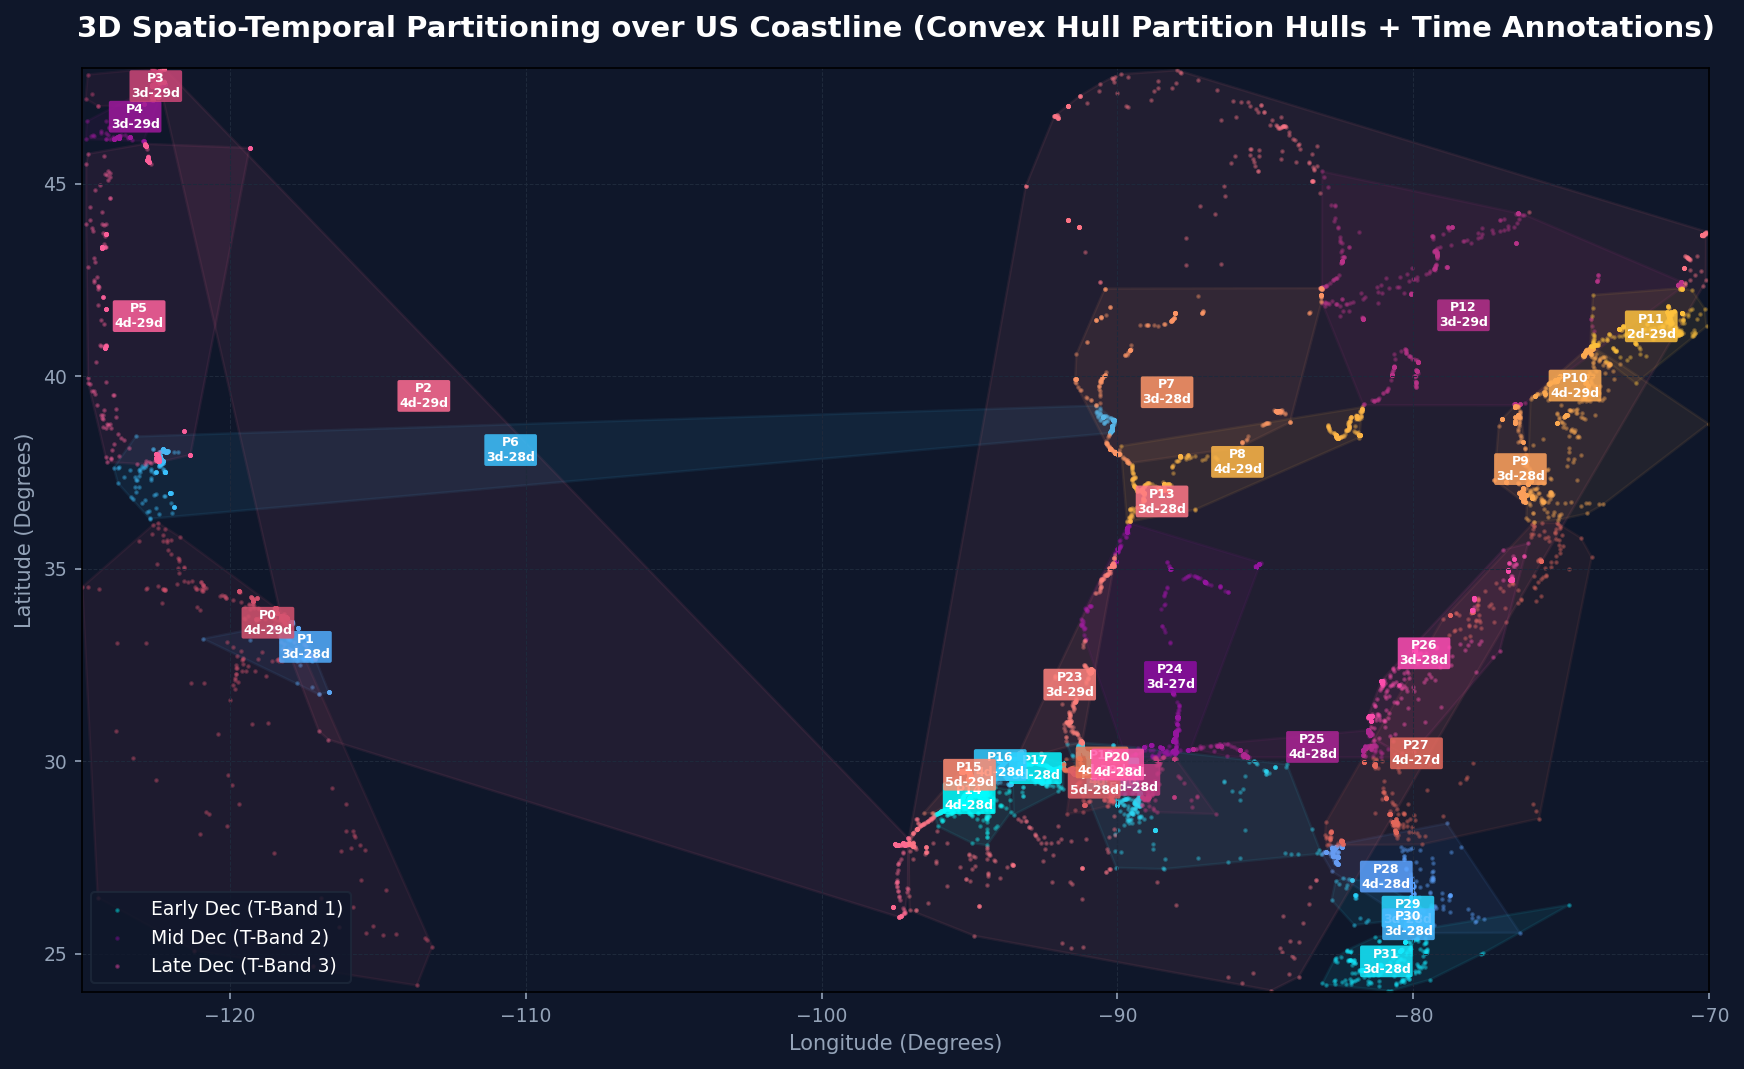
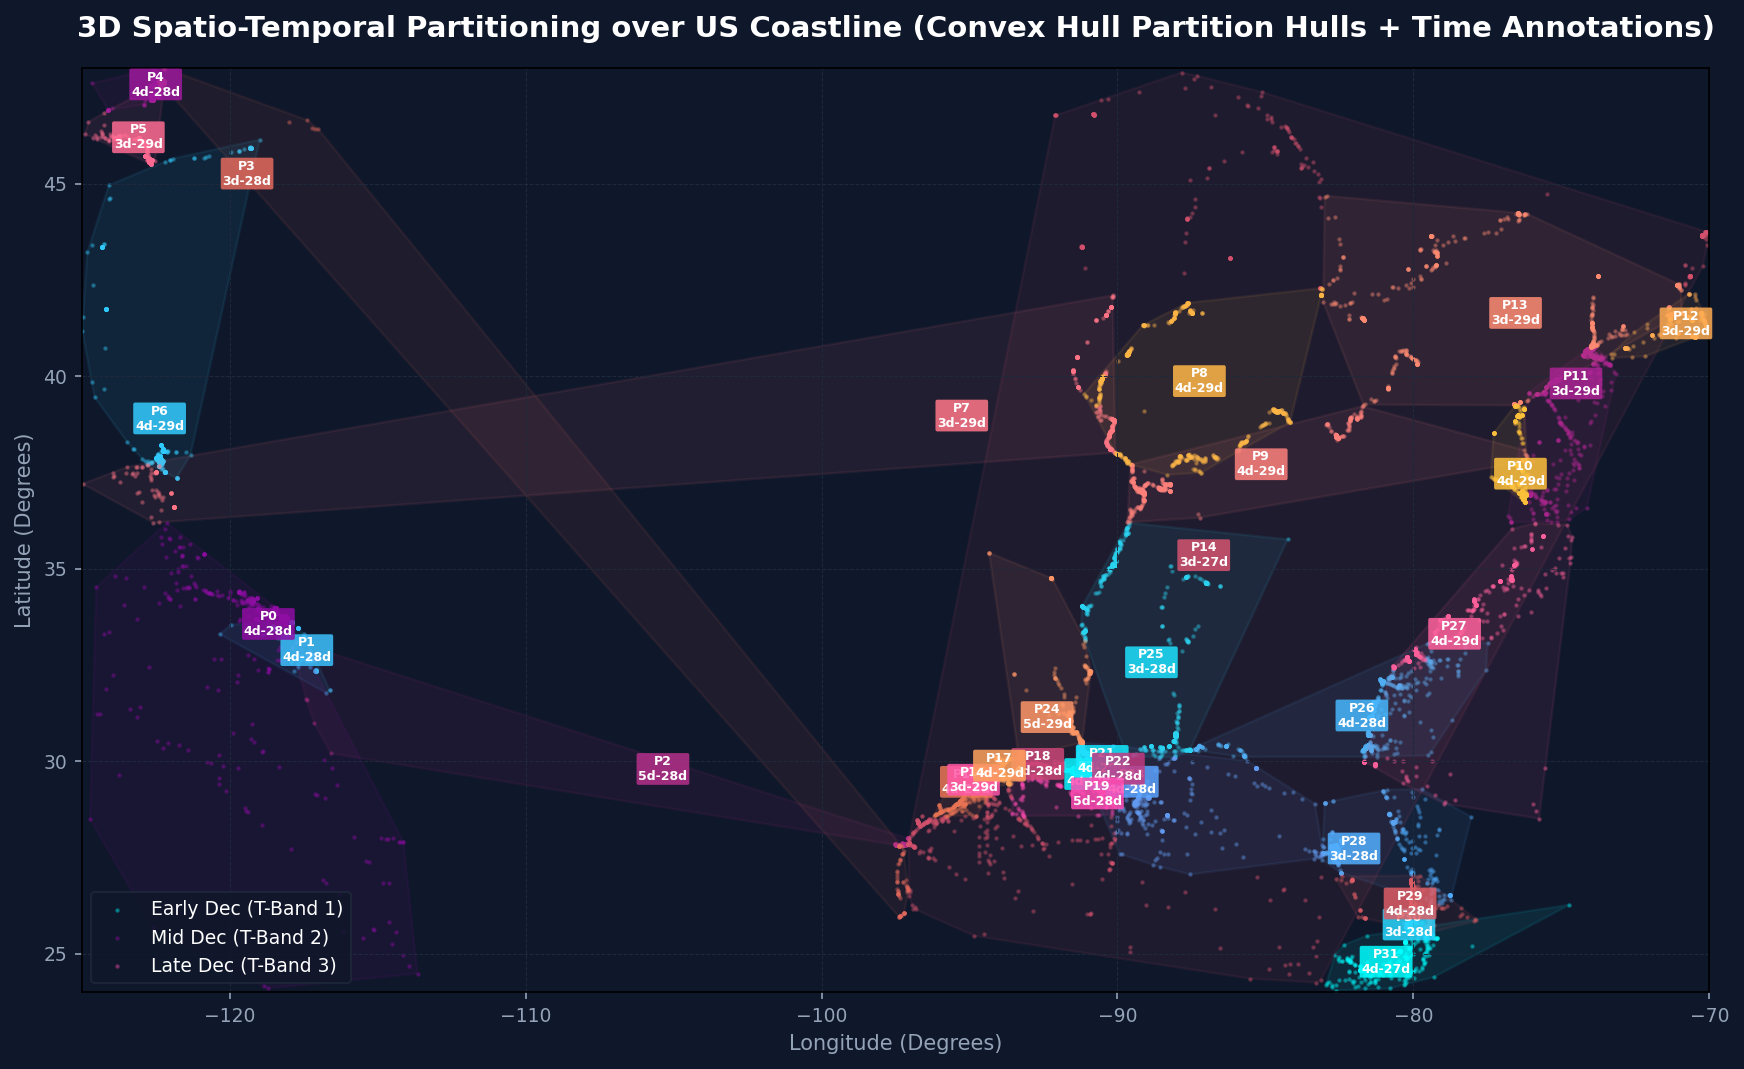
doc: use strided file selection to cover full month range in us_hilbert_spaces.png

diff --git a/docs/images/generate_us_hilbert_map.py b/docs/images/generate_us_hilbert_map.py
@@ -17,9 +17,11 @@ def main():
     # 1. Read a subset of rows from multiple parquet files to cover a wider temporal range (e.g. 15 days)
     print("Reading sample coordinates across multiple US AIS dataset files...")
     files = sorted(list(Path(dataset_path).glob("*.parquet")))
+    # Stride across all files to get a representative temporal range from the entire month
+    stride = max(1, len(files) // 15)
+    selected_files = files[::stride][:15]
     dfs = []
-    # Read from the first 15 files to get a representative multi-day sample
-    for pfile in files[:15]:
+    for pfile in selected_files:
         try:
             tbl = pq.read_table(pfile, columns=['longitude', 'latitude', 'base_date_time'])
             df_part = tbl.to_pandas().dropna(subset=['longitude', 'latitude', 'base_date_time'])